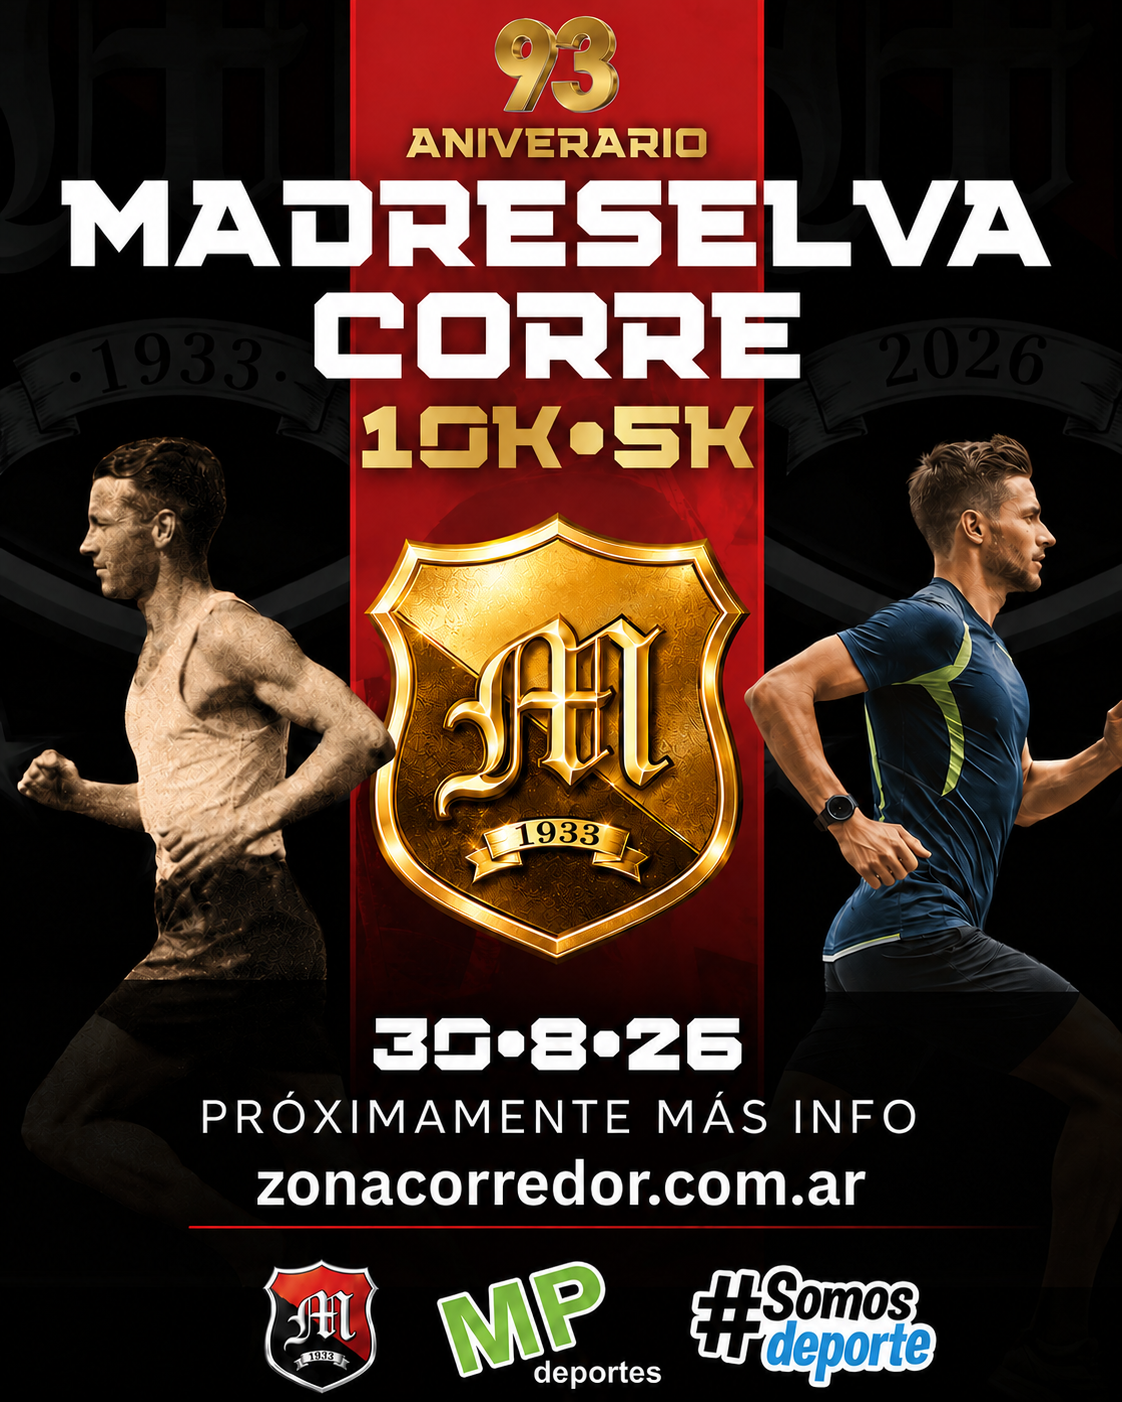
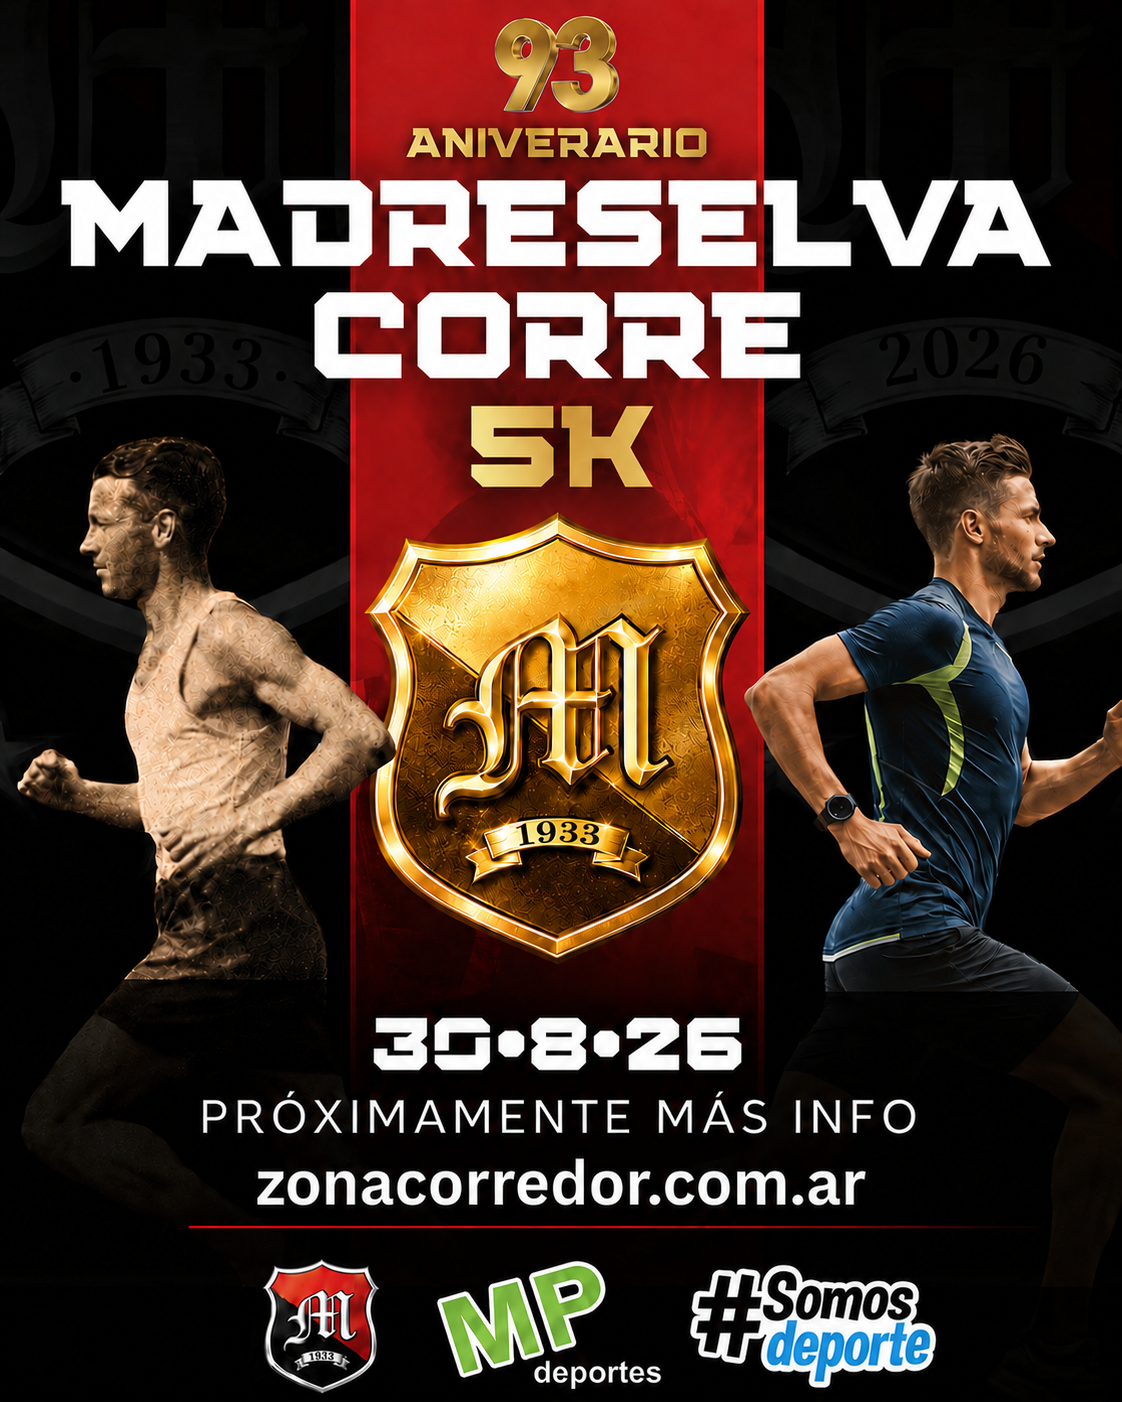
Validaciones de inscripción y actualización de Madre Selva

diff --git a/app.py b/app.py
@@ -2256,11 +2256,23 @@ def inscribirse(evento_id):
         <input type="number" name="edad" min="1" max="100" placeholder="Edad"
         style="padding:10px;border:1px solid #ccc;border-radius:6px;">
 
-        <select name="genero" style="padding:10px;border-radius:6px;">
-            <option value="">Seleccionar género</option>
-            <option value="M" {"selected" if persona.get("genero")=="M" else ""}>Masculino</option>
-            <option value="F" {"selected" if persona.get("genero")=="F" else ""}>Femenino</option>
-            <option value="X" {"selected" if persona.get("genero")=="X" else ""}>Otro</option>
+        <select
+            name="genero"
+            required
+            style="padding:10px;border-radius:6px;">
+
+            <option value="">Seleccionar sexo</option>
+
+            <option value="M"
+                {"selected" if persona.get("genero")=="M" else ""}>
+                Masculino
+            </option>
+
+            <option value="F"
+                {"selected" if persona.get("genero")=="F" else ""}>
+                Femenino
+            </option>
+
         </select>
 
         <h3>Ubicación</h3>
@@ -2353,6 +2365,7 @@ def inscribirse(evento_id):
                     <input
                         type="text"
                         name="campo_{campo['id']}"
+                        {"required" if campo["obligatorio"] else ""}
                         style="
                         padding:10px;
                         border:1px solid #ccc;
@@ -2370,6 +2383,7 @@ def inscribirse(evento_id):
 
                     <select
                         name="campo_{campo['id']}"
+                        {"required" if campo["obligatorio"] else ""}
                         style="
                         padding:10px;
                         border-radius:6px;
@@ -2471,13 +2485,47 @@ def inscribirse(evento_id):
         distancia_id = request.form.get("distancia_id")
 
         if not distancia_id:
-            return "Error: distancia perdida 😈"
+            return "Error: distancia perdida 😅"
+        
+        # ------------------------------------
+        # VALIDAR CAMPOS OBLIGATORIOS
+        # ------------------------------------
 
-         
+        cursor.execute("""
+        SELECT id, nombre
+        FROM distancia_campos
+        WHERE distancia_id = %s
+        AND obligatorio = 1
+        ORDER BY id
+        """, (distancia_id,))
+
+        campos_obligatorios = cursor.fetchall()
+
+        for campo in campos_obligatorios:
+
+            valor = request.form.get(f"campo_{campo['id']}", "").strip()
+
+            if not valor:
+                return f"""
+                <script>
+                alert("Debe completar el campo: {campo['nombre']}");
+                history.back();
+                </script>
+                """
+
+        # ------------------------------------
+
+        genero = request.form.get("genero", "").strip()
+
+        if genero not in ("M", "F"):
+            return """
+            <script>
+            alert("Debe seleccionar el sexo del corredor.");
+            history.back();
+            </script>
+            """
+
         fecha_nac = request.form.get("fecha_nacimiento")
-
-        if not fecha_nac:
-            return "Falta fecha de nacimiento"
 
         fecha_nac = datetime.strptime(fecha_nac, "%Y-%m-%d").date()
 